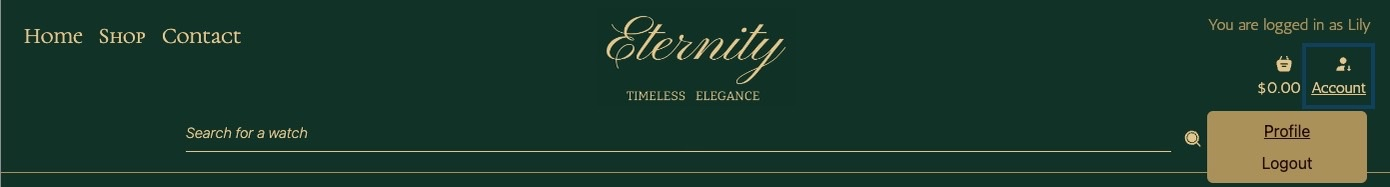
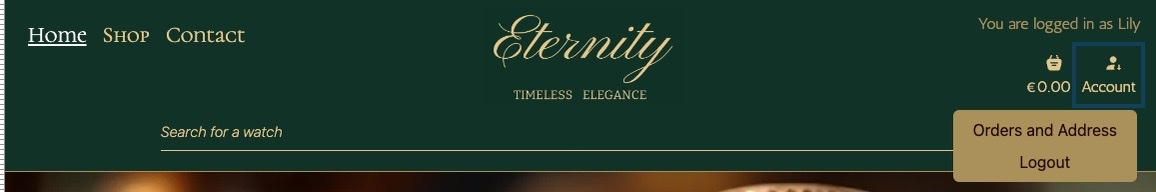
chore: prepare project for deployment

diff --git a/staticfiles/css/style.css b/staticfiles/css/style.css
@@ -117,6 +117,7 @@ header p {
 
 .header-icons .nav-link:hover {
     text-decoration-color: #E4C58A !important;
+    text-decoration: none !important;
 }
 
 .dropdown-item.active {
@@ -685,6 +686,10 @@ input[type="radio"] {
     accent-color: #e4c58a !important;
 }
 
+label[for^="addon"] {
+    pointer-events: none;
+}
+
 .stripe-style-input,
 .profile-form-input {
     border: 1px solid #aa9159 !important;
@@ -912,7 +917,7 @@ ul.list-unstyled {
 }
 
 .contact-bottom-image {
-    background: url('https://res.cloudinary.com/dmqcpnmy9/image/upload/v1727090971/contact-page-bottom_ctojck.webp');
+    background: url('/images/contact_page/contact-page-bottom.webp');
     background-size: cover;
     background-position: center center;
     height:400px;
@@ -987,7 +992,7 @@ font-size: 100% !important;
 @media screen and (min-width: 270px) {
     /* H1 style */
     h1 {
-        font-size: 200% !important;
+        font-size: 190% !important;
     }
 
     /* H2-4 styles */
@@ -995,7 +1000,7 @@ font-size: 100% !important;
     h3,
     h4
     {
-        font-size: 200% !important;
+        font-size: 160% !important;
     }
 
     /* H5-6 styles */
@@ -1120,7 +1125,7 @@ font-size: 100% !important;
     h3,
     h4
     {
-        font-size: 210% !important;
+        font-size: 170% !important;
     }
 
     /* H5-6 styles */
@@ -1288,6 +1293,12 @@ font-size: 100% !important;
         max-width: 350px;
     }
 
+    /* Style Profile Page */
+    .table-orders-history th,
+    .table-orders-history td {
+        min-width: 150px;
+    }
+
     /* Style Contact page */
     .contact-form input,
     .contact-form textarea {
@@ -1307,7 +1318,7 @@ font-size: 100% !important;
     h3,
     h4
     {
-        font-size: 230% !important;
+        font-size: 200% !important;
     }
 
     /* H5-6 styles */
@@ -1382,6 +1393,10 @@ font-size: 100% !important;
     }
 
     /* Style Profile page */
+    .table-orders-history th,
+    .table-orders-history td {
+        min-width: 185px;
+    }
     .table-orders-history, td, tr {
         font-size: 16px !important;
     }
@@ -1412,5 +1427,11 @@ font-size: 100% !important;
     /* Style Subscribe form */
     #mce-EMAIL {
         width: 300px !important;
+    }
+
+    /* Style Profile Page */
+    .table-orders-history th,
+    .table-orders-history td {
+        min-width: 250px;
     }
 }

diff --git a/static/css/style.css b/static/css/style.css
@@ -117,6 +117,7 @@ header p {
 
 .header-icons .nav-link:hover {
     text-decoration-color: #E4C58A !important;
+    text-decoration: none !important;
 }
 
 .dropdown-item.active {
@@ -685,6 +686,10 @@ input[type="radio"] {
     accent-color: #e4c58a !important;
 }
 
+label[for^="addon"] {
+    pointer-events: none;
+}
+
 .stripe-style-input,
 .profile-form-input {
     border: 1px solid #aa9159 !important;
@@ -987,7 +992,7 @@ font-size: 100% !important;
 @media screen and (min-width: 270px) {
     /* H1 style */
     h1 {
-        font-size: 200% !important;
+        font-size: 190% !important;
     }
 
     /* H2-4 styles */
@@ -995,7 +1000,7 @@ font-size: 100% !important;
     h3,
     h4
     {
-        font-size: 200% !important;
+        font-size: 160% !important;
     }
 
     /* H5-6 styles */
@@ -1120,7 +1125,7 @@ font-size: 100% !important;
     h3,
     h4
     {
-        font-size: 210% !important;
+        font-size: 170% !important;
     }
 
     /* H5-6 styles */
@@ -1288,6 +1293,12 @@ font-size: 100% !important;
         max-width: 350px;
     }
 
+    /* Style Profile Page */
+    .table-orders-history th,
+    .table-orders-history td {
+        min-width: 150px;
+    }
+
     /* Style Contact page */
     .contact-form input,
     .contact-form textarea {
@@ -1307,7 +1318,7 @@ font-size: 100% !important;
     h3,
     h4
     {
-        font-size: 230% !important;
+        font-size: 200% !important;
     }
 
     /* H5-6 styles */
@@ -1382,6 +1393,10 @@ font-size: 100% !important;
     }
 
     /* Style Profile page */
+    .table-orders-history th,
+    .table-orders-history td {
+        min-width: 185px;
+    }
     .table-orders-history, td, tr {
         font-size: 16px !important;
     }
@@ -1412,5 +1427,11 @@ font-size: 100% !important;
     /* Style Subscribe form */
     #mce-EMAIL {
         width: 300px !important;
+    }
+
+    /* Style Profile Page */
+    .table-orders-history th,
+    .table-orders-history td {
+        min-width: 250px;
     }
 }

diff --git a/templates/base.html b/templates/base.html
@@ -145,7 +145,7 @@
                     <ul class="header-icons d-flex flex-row mx-1">
                         <!-- Cart -->
                         <li class="list-inline-item cart mx-0">
-                            <a class="nav-link {% if grand_total %}text-info fw-bold{% else %}text-dark{% endif %}" href="{% url 'view_cart' %}">
+                            <a class="nav-link" href="{% url 'view_cart' %}">
                                 <div class="text-center">
                                     <div><iconify-icon icon="solar:cart-5-bold" width="20" height="20" aria-hidden="true"></iconify-icon></div>
                                     <p class="my-0 icon-text">
@@ -182,7 +182,7 @@
                                 <a class="dropdown-item {% if request.path == policies_url %}active{% endif %}" href="{{ policies_url }}">Manage Policies</a>
                                 {% endif %}
                                 {% url 'profile' as profile_url %}
-                                <a class="dropdown-item {% if request.path == profile_url %}active{% endif %}" href="{{ profile_url }}">Profile</a>
+                                <a class="dropdown-item {% if request.path == profile_url %}active{% endif %}" href="{{ profile_url }}">Orders and Address</a>
                                 {% url 'account_logout' as logout_url %}
                                 <a class="dropdown-item {% if request.path == logout_url %}active{% endif %}" aria-current="page" href="{{ logout_url }}">Logout</a>
                                 {% else %}

diff --git a/profiles/templates/profiles/profile.html b/profiles/templates/profiles/profile.html
@@ -7,14 +7,14 @@
     <div class="row">
         <div class="col-12">
             <div class="col-12">
-                <h1 class="h1 text-center mt-4">Profile</h1>
+                <h1 class="h1 text-center my-4">Profile</h1>
             </div>
         </div>
     </div>
     <div class="row">
-        <div class="col-12 col-lg-6 col-xl-5 offset-xl-1 px-1 align-items-center justify-content-center mb-5">
+        <div class="col-12 px-1 align-items-center justify-content-center mb-5">
             <div class="text-center">
-                <h5 class="px-2 text-center">Order History:</h5>
+                <h2 class="px-2 text-center" id="orders">Order History:</h2>
                 <div class="d-flex justify-content-center">
                     <div class="order-history table-responsive">
                         <table class="table-orders-history">
@@ -66,9 +66,9 @@
                 </div>
             </div>
         </div>
-        <div class="col-12 col-lg-6 col-xl-5 offset-xl-1 px-sm-2 px-lg-5 align-items-center justify-content-center mb-5">
+        <div class="col-12 px-sm-2 px-lg-5 align-items-center justify-content-center mb-5">
             <div class="d-flex justify-content-center">
-                <h5 class="mb-0 text-center">Default Delivery Details:</h5>
+                <h2 class="mb-0 text-center" id="address">Default Delivery Address:</h2>
             </div>
             <form class="mt-3" action="{% url 'profile' %}" method="POST" id="profile-update-form">
                 {% csrf_token %}

diff --git a/watch_store/settings.py b/watch_store/settings.py
@@ -65,7 +65,6 @@ MIDDLEWARE = [
     'django.contrib.auth.middleware.AuthenticationMiddleware',
     'django.contrib.messages.middleware.MessageMiddleware',
     'django.middleware.clickjacking.XFrameOptionsMiddleware',
-    'whitenoise.middleware.WhiteNoiseMiddleware',
     'allauth.account.middleware.AccountMiddleware',
 ]
 

diff --git a/README.md b/README.md
@@ -624,11 +624,15 @@ If a customer visits the Cart Page before adding any items to the cart, they rec
 
 ![Checkout Page](/media/checkout-page.jpeg)
 
-![Order Confirmation Email](/media/order-confirmation-email.jpeg)
+
 
 ### Thank You Page
 
 ![Thank You Page.jpeg](/media/thank-you-page.jpeg)
+
+![thank-you-page-multiple-products](/media/thank-you-page-multiple-products.jpeg)
+
+![Order Confirmation Email](/media/order-confirmation-email.jpeg)
 
 ### Contact Us Page
 
